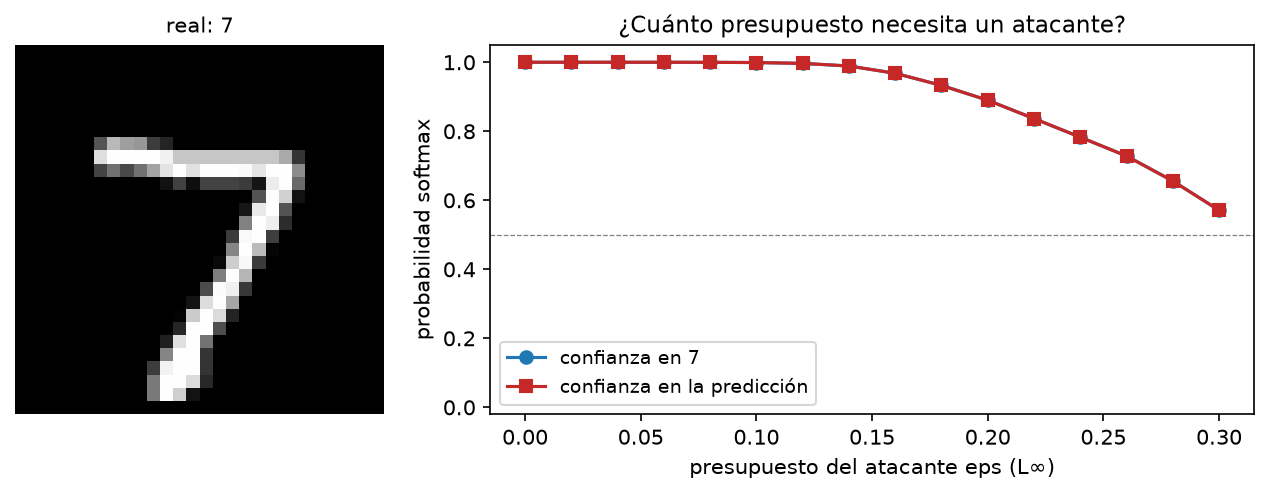
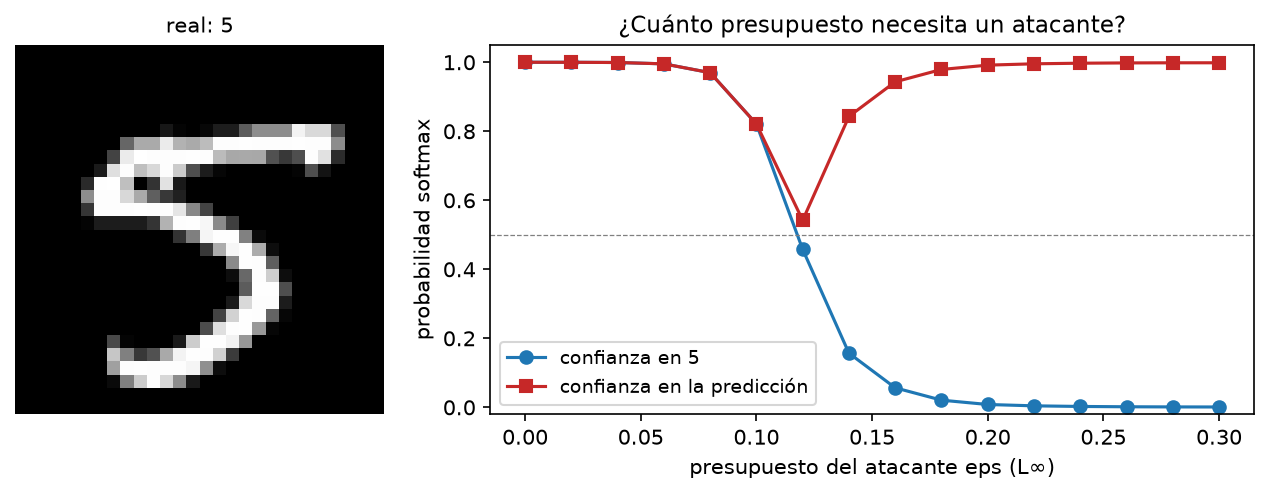
Ajustes finales: curva de confianza con volteo visible, rejilla CIFAR-10, badge de tests

diff --git a/scripts/make_assets.py b/scripts/make_assets.py
@@ -143,18 +143,26 @@ def make_grids(clean_model, at_model, test_loader, device):
 
 def make_confidence_curve(clean_model, test_loader, device):
     logger.info("→ Curva de confianza vs eps")
-    # Buscamos una imagen bien clasificada con alta confianza
+    # Buscamos una imagen bien clasificada con alta confianza a la que
+    # además FGSM(0.15) SÍ engaña: la curva debe mostrar el volteo, no solo
+    # la degradación de confianza.
     for images, labels in test_loader:
         images, labels = images.to(device), labels.to(device)
         with torch.no_grad():
             probs = clean_model(images).softmax(1)
             conf, preds = probs.max(1)
             ok = preds == labels
-        if ok.any():
-            high = ok & (conf > 0.95)
-            idx = int(torch.where(high)[0][0]) if high.any() else int(torch.where(ok)[0][0])
-            image, label = images[idx], int(labels[idx])
-            break
+        if not ok.any():
+            continue
+        result = FGSM(clean_model, eps=0.15)(images[ok], labels[ok])
+        flipped = result.success
+        if not flipped.any():
+            continue
+        idx_candidates = torch.where(ok)[0][flipped]
+        conf_candidates = conf[idx_candidates]
+        idx = int(idx_candidates[int(conf_candidates.argmax())])
+        image, label = images[idx], int(labels[idx])
+        break
     attack_factory = lambda eps: FGSM(clean_model, eps=eps)  # noqa: E731
     plot_confidence_vs_eps(
         clean_model,

diff --git a/README.md b/README.md
@@ -8,7 +8,7 @@
 [![Python 3.10+](https://img.shields.io/badge/python-3.10+-blue.svg)](https://www.python.org/downloads/)
 [![License: MIT](https://img.shields.io/badge/License-MIT-yellow.svg)](LICENSE)
 [![Code style: black](https://img.shields.io/badge/code%20style-black-000000.svg)](https://github.com/psf/black)
-[![Tests](https://img.shields.io/badge/tests-36%20passing-brightgreen)](tests/)
+[![Tests](https://img.shields.io/badge/tests-40%20passing-brightgreen)](tests/)
 
 Una imagen que una CNN clasifica como **4 con 99% de confianza** se
 convierte en un **8** cambiando píxeles que **ni ves**. Este repo te enseña
